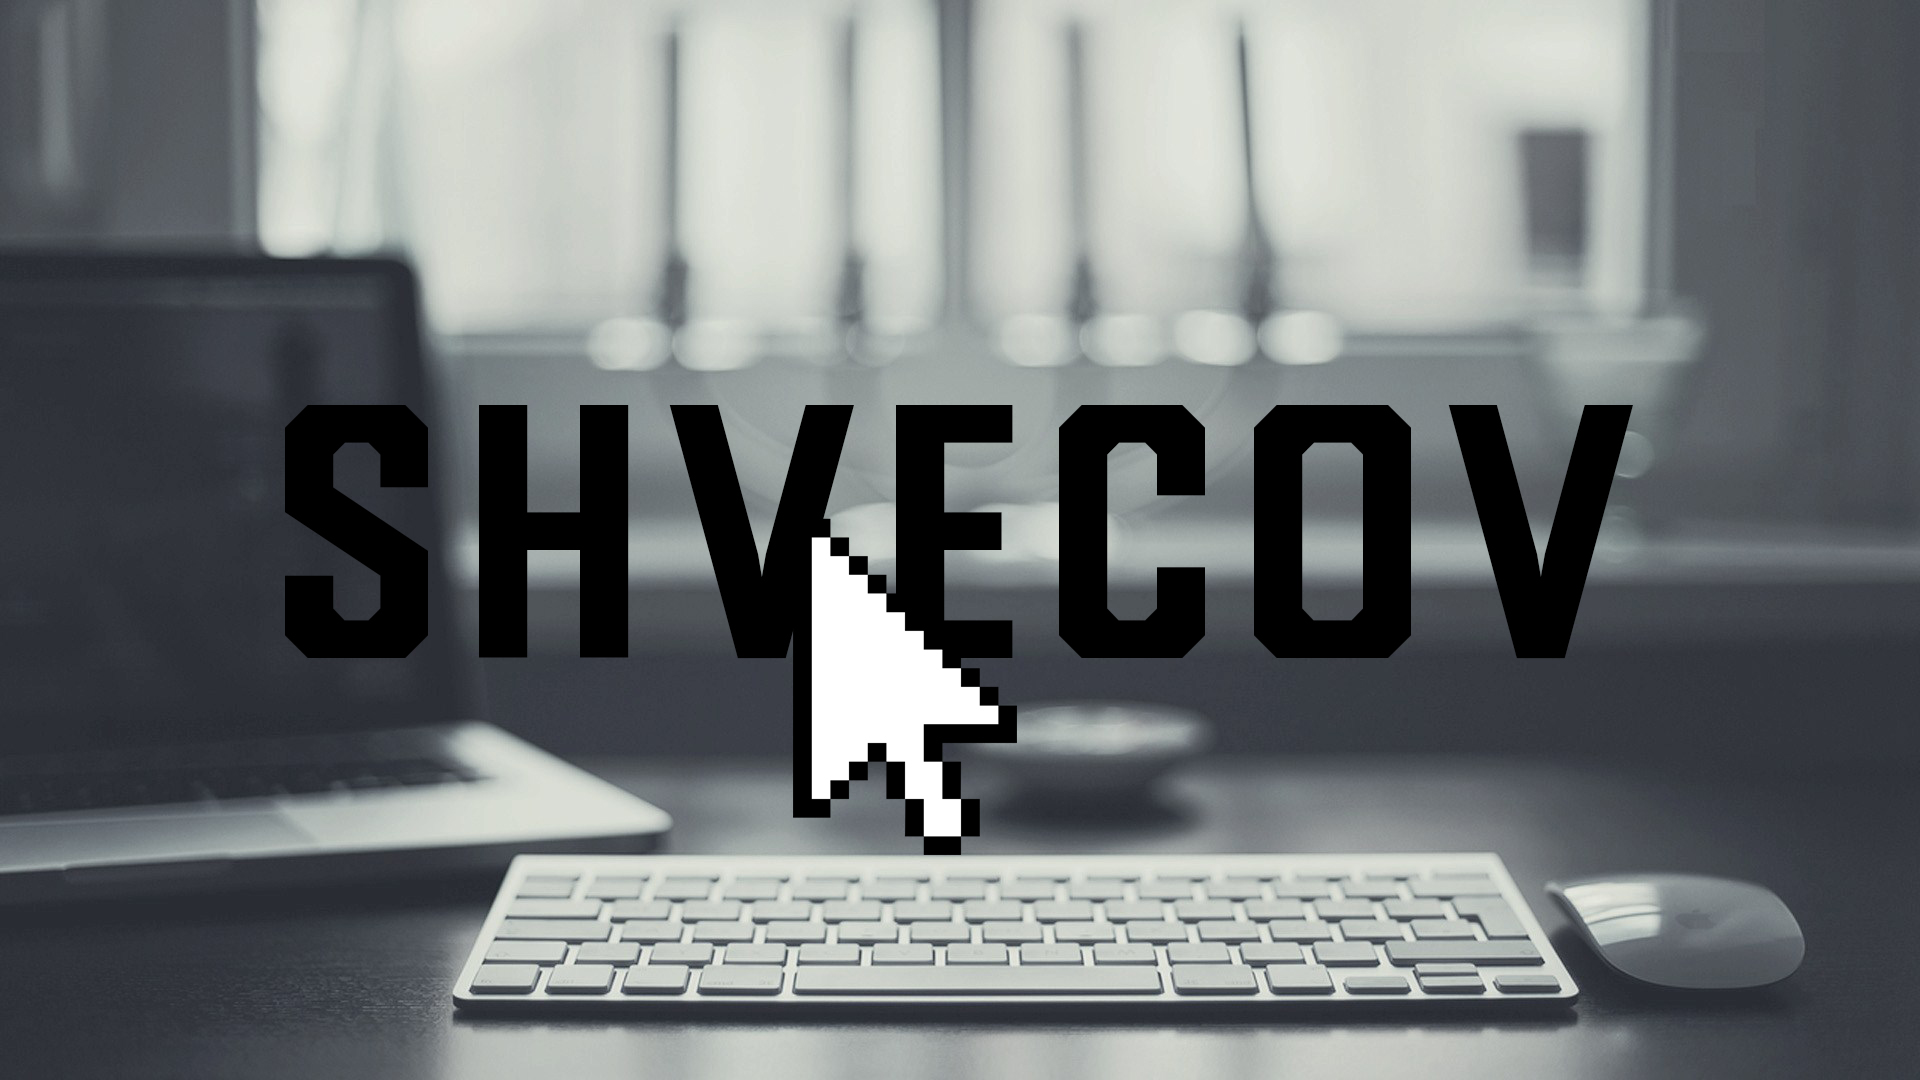
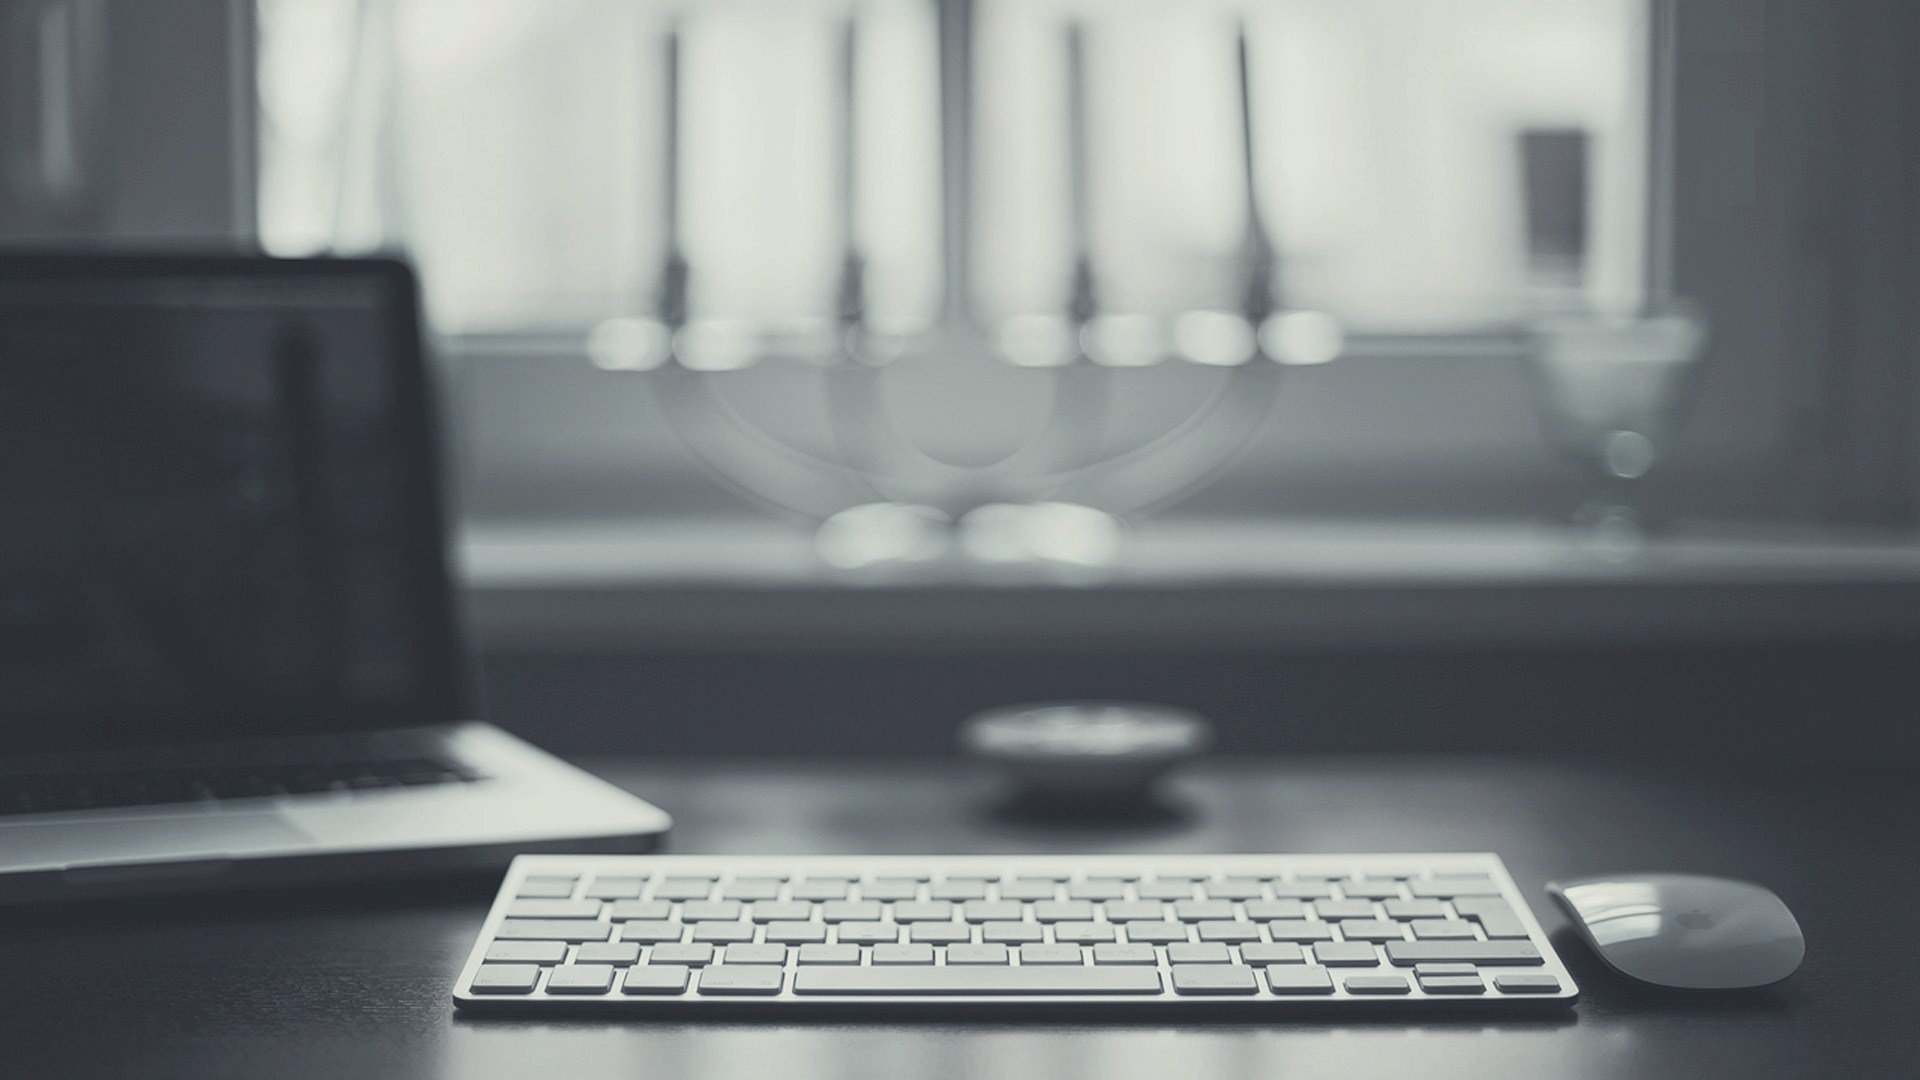
2

Changed region(s): [[0.125, 0.3667, 0.875, 0.7944]]

diff --git a/css/main.css b/css/main.css
@@ -9,23 +9,62 @@ body {
     width: 100%;
     height: 100vh;
     position: relative;
+    font-family: 'Russo One', sans-serif;
+    color: #000000;
+    font-size: 240px;
+    text-align: center;
+}
+
+.shvec {
+    width: 100%;
+    font-family: 'Russo One', sans-serif;
+    color: #000000;
+    font-size: 240px;
+    text-align: center;
+    position: absolute;
+    margin-top: 350px;
+}
+
+.png {
+    background-image: url(../img/img4.png);
+    background-repeat: no-repeat;
+    width: auto;
+    height: 250px;
+    background-size: contain;
+    left: 0;
+    right: 0;
+    top: 0;
+    margin: 425px auto 0px 836px;
+    position: absolute;
 }
 
 .container1 {
     width: 100%;
     height: 100vh;
     background-image: url(../img/img2.jpg);
+    background-size: cover;
     display: flex;
+    background-repeat: no-repeat;
 }
 
-.text {
-    
-    height: 500px;
+.text1 {
+    font-family: 'Russo One', sans-serif;
+    color: #343535;
+    position: absolute;
+    font-size: 89px;
+    width: 450px;
+    margin: 155px 0 0px 262px;
+    text-align: center;
+}
+
+.text { 
+    width: 800px;
+    height: 0;
     font-family: 'Francois One', sans-serif;
     color: #343535;
     font-size: 35px;
     justify-content: right;
-    margin: 170px 0px 0 1025px;
+    margin: 163px 0px 0 1025px;
 }
 
 .container-site-head {
@@ -34,17 +73,18 @@ body {
 }
 
 .container-site {
-    width: 706px;
+    width: 100%;
     height: 525px;
     transition: 0.3s;
+    position: relative;
 }
 
 a {
-    width: 705px;
+    width: 100%;
     font-family: 'Francois One', sans-serif;
     font-size: 76px;
     color: #fef4e5;
-    margin: 190px 0px 0 -34px;
+    margin-top: 190px;
     text-decoration: none;
     position: absolute;
     text-align: center;
@@ -63,15 +103,15 @@ a {
 }
 
 .block4 {
-    background-color: #fdc2b0;
+    background-color: #ffad94;
 }
 
 .block5 {
-    background-color: #fed0c1;
+    background-color: #ca8973;
 }
 
 .block6 {
-    background-color: #d3ceae;
+    background-color: #faefa7;
 }
 
 .container-site:hover {
@@ -82,7 +122,64 @@ a {
 .price {
     width: 100%;
     height: 100vh;
-    background-image: url(../img/img3.jpg);
+    background-color: #ffe1bd;
     background-size: cover;
     background-repeat: no-repeat;
+    position: relative;
+}
+
+.price1 {
+    font-family: 'Russo One', sans-serif;
+    font-size: 95px;
+    color: #343535;
+    position: absolute;
+    margin: 50px 0 0 50px;
+}
+
+.container-price-site {
+    text-align: center;
+    font-family: 'Russo One', sans-serif;
+    font-size: 62px;
+    color: #343535;
+    position: absolute;
+    margin: 82px 0 0 975px;
+}
+
+.container-price {
+    text-align: center;
+    font-family: 'Russo One', sans-serif;
+    font-size: 62px;
+    color: #343535;
+    position: absolute;
+    margin: 82px 0px 0px 1679px;
+}
+
+hr {
+    display: block;
+    width: 46.2%;
+    color: #343535;
+    margin: 150px 0 0 976px;
+    position: absolute;
+    border: none;
+    border-bottom: #343535 2px solid;
+}
+
+.container-price-text {
+    display: inline;
+    font-family: 'Russo One', sans-serif;
+    position: absolute;
+    font-size: 25px;
+    color: #343535;
+    margin: 0 0 0 0;
+    line-height: 50px;
+}
+
+.container-price-text1 {
+    display: flex;
+    width: 28%;
+    font-family: 'Russo One', sans-serif;
+    position: absolute;
+    font-size: 25px;
+    color: #343535;
+    line-height: 50px;
 }

diff --git a/index.html b/index.html
@@ -5,19 +5,23 @@
     <meta name="viewport" content="width=device-width, initial-scale=1.0">
     <meta http-equiv="X-UA-Compatible" content="ie=edge">
     <link rel="stylesheet" href="css/main.css">
-    <link href="https://fonts.googleapis.com/css?family=Francois+One&display=swap" rel="stylesheet"> 
+    <link href="https://fonts.googleapis.com/css?family=Russo+One&display=swap" rel="stylesheet">
     <title>Document</title>
 </head>
 <body>
-        <div class="header"></div>
+        <div class="header">
+            <div class="shvec">SHVECOV</div>
+        <div class="png"></div>
+        </div>
         <div class="container1">
+            <div class="text1">ВЕРСТКА САЙТОВ</div>
             <div class="text">
             Lorem ipsum dolor sit amet consectetur adipisicing elit. Repellat commodi corporis provident voluptas obcaecati. Corporis soluta eum dolore exercitationem fugit fuga, deserunt aut. Deleniti temporibus enim reprehenderit dolorum assumenda maxime. Lorem ipsum dolor sit, amet consectetur adipisicing elit. Temporibus, ex praesentium, quia accusantium optio voluptate blanditiis suscipit corrupti minus, beatae magnam tenetur architecto explicabo maiores illo repellat dicta? Ducimus, aperiam?Lorem ipsum dolor sit amet consectetur, adipisicing elit. Iusto sequi, in quia itaque consectetur sint nobis voluptas accusamus harum voluptate quasi, odit explicabo? Architecto, quos reprehenderit maxime cupiditate error excepturi.
             </div>
         </div>
         <div class="container-site-head">
             <div class="container-site block1"><a href="site login form/index.html">Форма входа</a></div>
-            <div class="container-site block2"><a href="site shop/">Магазин</a></div>
+            <div class="container-site block2"><a href="site shop/index.html">Магазин</a></div>
             <div class="container-site block3"><a href="site pillar/index.html">Сайт</a></div>
         </div>
         <div class="container-site-head">
@@ -26,7 +30,28 @@
                 <div class="container-site block6"><a href="site vasco/index.html">Сайт</a></div>
         </div>
         <div class="price">
-            
+            <div class="price1">СТОИМОСТЬ</div>
+            <div class="container-price-site">САЙТ
+                <div class="container-price-text1">
+                    Тип
+                    Тип
+                    Тип
+                    Тип
+                    Тип
+                    Тип
+                </div>
+            </div>
+            <div class="container-price">ЦЕНА
+                <div class="container-price-text">
+                    Цена
+                    Цена
+                    Цена
+                    Цена
+                    Цена
+                    Цена
+                </div>
+            </div>
+            <hr>
         </div>
 </body>
 </html>
